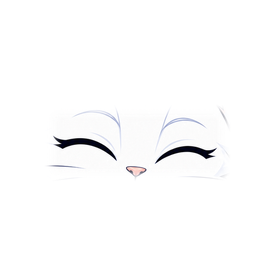
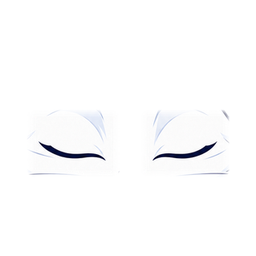
Кади: новые позы — думает, с ноутбуком, спокойный, приветствие, с лупой
Исходники владельца из ChatGPT обработаны по правилам DESIGN.md: мусор убран, обрезка
с полем, уменьшение вдвое, слой моргания из пары с закрытыми глазами. Заменены neutral,
greeting и search (отражена, надпись cad.kz незеркальная), голова для чата вырезана
из нового neutral. Добавлены think и laptop для окна ИИ-консультанта. Обработка —
скрипт scripts/kadi-images.py, чтобы следующие позы делать так же. Служебная страница
/kadi со всеми позами — только в демо, чтобы владелец проверил вид и моргание.

Claude-Session: https://claude.ai/code/session_01VMxEUVfyK6pAGpGHoVX8Mr

diff --git a/src/components/MascotGallery/MascotGallery.tsx b/src/components/MascotGallery/MascotGallery.tsx
@@ -1,0 +1,40 @@
+import { Grid } from '../Grid/Grid'
+import { Mascot, type MascotPose, type MascotSize } from '../Mascot/Mascot'
+import styles from './MascotGallery.module.css'
+
+type Item = { pose: MascotPose; size: MascotSize; title: string; where: string }
+
+/** Позы Кади с тем размером, в каком они стоят (или будут стоять) на сайте. */
+const ITEMS: Item[] = [
+  { pose: 'not-found', size: 'lg', title: 'С чертежом', where: 'Страница 404' },
+  { pose: 'empty-cart', size: 'md', title: 'С коробкой', where: 'Пустая корзина' },
+  {
+    pose: 'search',
+    size: 'md',
+    title: 'С лупой',
+    where: 'Поиск без результатов, фильтр каталога без товаров',
+  },
+  { pose: 'think', size: 'md', title: 'Думает', where: 'ИИ-консультант: ожидание ответа' },
+  { pose: 'laptop', size: 'md', title: 'С ноутбуком', where: 'ИИ-консультант: работает' },
+  { pose: 'greeting', size: 'md', title: 'Приветствие', where: 'ИИ-консультант: первое окно' },
+  { pose: 'neutral', size: 'md', title: 'Спокойный', where: 'Запас, пока не выводится' },
+  { pose: 'success', size: 'md', title: 'Доволен', where: 'После заявки — при запуске' },
+  { pose: 'head', size: 'avatar', title: 'Голова', where: 'Шапка окна ИИ-консультанта' },
+]
+
+/** Служебная витрина поз Кади для демоверсии: проверить вид и моргание. */
+export function MascotGallery() {
+  return (
+    <Grid as="ul" span={{ base: 12, sm: 6, md: 4 }} className={styles.list}>
+      {ITEMS.map((item) => (
+        <li key={item.pose} className={styles.item}>
+          <div className={styles.stage}>
+            <Mascot pose={item.pose} size={item.size} />
+          </div>
+          <p className={styles.title}>{item.title}</p>
+          <p className={styles.where}>{item.where}</p>
+        </li>
+      ))}
+    </Grid>
+  )
+}

diff --git a/src/components/Mascot/Mascot.tsx b/src/components/Mascot/Mascot.tsx
@@ -4,6 +4,8 @@ import emptyCartBlink from '../../../public/images/mascot/kadi-empty-cart-blink.
 import greeting from '../../../public/images/mascot/kadi-greeting.png'
 import head from '../../../public/images/mascot/kadi-head.png'
 import headBlink from '../../../public/images/mascot/kadi-head-blink.png'
+import laptop from '../../../public/images/mascot/kadi-laptop.png'
+import laptopBlink from '../../../public/images/mascot/kadi-laptop-blink.png'
 import neutral from '../../../public/images/mascot/kadi-neutral.png'
 import neutralBlink from '../../../public/images/mascot/kadi-neutral-blink.png'
 import notFound from '../../../public/images/mascot/kadi-not-found.png'
@@ -11,11 +13,15 @@ import notFoundBlink from '../../../public/images/mascot/kadi-not-found-blink.pn
 import search from '../../../public/images/mascot/kadi-search.png'
 import searchBlink from '../../../public/images/mascot/kadi-search-blink.png'
 import success from '../../../public/images/mascot/kadi-success.png'
+import think from '../../../public/images/mascot/kadi-think.png'
+import thinkBlink from '../../../public/images/mascot/kadi-think-blink.png'
 import styles from './Mascot.module.css'
 
 /**
  * Позы Кади. blink — слой того же размера, где видны только закрытые глаза:
  * кладётся поверх и на мгновение проявляется (моргание).
+ * think (думает) и laptop (с ноутбуком) смотрят вправо — только для окна ИИ-консультанта,
+ * где Кади слева от сообщений; на страницы справа от текста их не ставить.
  */
 const POSES = {
   neutral: { src: neutral, blink: neutralBlink },
@@ -24,6 +30,8 @@ const POSES = {
   'not-found': { src: notFound, blink: notFoundBlink },
   success: { src: success, blink: null },
   greeting: { src: greeting, blink: null },
+  think: { src: think, blink: thinkBlink },
+  laptop: { src: laptop, blink: laptopBlink },
   head: { src: head, blink: headBlink },
 } satisfies Record<string, { src: StaticImageData; blink: StaticImageData | null }>
 

diff --git a/src/app/(site)/kadi/page.tsx b/src/app/(site)/kadi/page.tsx
@@ -1,0 +1,29 @@
+import type { Metadata } from 'next'
+import { notFound } from 'next/navigation'
+import { Breadcrumbs } from '@/components/Breadcrumbs/Breadcrumbs'
+import { Container } from '@/components/Container/Container'
+import { MascotGallery } from '@/components/MascotGallery/MascotGallery'
+import { PageIntro } from '@/components/PageIntro/PageIntro'
+import { isProduction } from '@/lib/seo'
+
+export const metadata: Metadata = {
+  title: 'Кади — позы персонажа — CAD.kz',
+  robots: { index: false, follow: false },
+}
+
+/** Служебная страница демоверсии: все позы Кади. На рабочем сайте её нет (404). */
+export default function KadiPage() {
+  if (isProduction()) notFound()
+  return (
+    <main>
+      <Container>
+        <Breadcrumbs items={[{ title: 'Главная', href: '/' }, { title: 'Кади' }]} />
+        <PageIntro
+          title="Кади — позы персонажа"
+          lead="Служебная страница демоверсии, на рабочем сайте её не будет. Кади моргает раз в 3 секунды и ещё раз при наведении."
+        />
+        <MascotGallery />
+      </Container>
+    </main>
+  )
+}

diff --git a/src/components/MascotGallery/MascotGallery.module.css b/src/components/MascotGallery/MascotGallery.module.css
@@ -1,0 +1,37 @@
+/* Плитки по 4 колонки от 960 px, по 6 от 640, на телефоне во всю ширину. */
+.list {
+  padding-bottom: var(--section-gap);
+}
+
+.item {
+  display: flex;
+  flex-direction: column;
+  gap: var(--space-1);
+  padding: var(--space-6);
+  border-radius: var(--radius-lg);
+  background: var(--color-surface);
+}
+
+/* Высота сцены — по самой крупной позе (404 от 960 px), чтобы подписи ряда стояли на одной линии. */
+.stage {
+  display: flex;
+  align-items: flex-end;
+  justify-content: center;
+  min-height: var(--mascot-lg);
+  margin-bottom: var(--space-3);
+}
+
+.title {
+  margin: 0;
+  font-size: var(--text-h4);
+  font-weight: var(--weight-semibold);
+  line-height: var(--leading-snug);
+  color: var(--color-text);
+}
+
+.where {
+  margin: 0;
+  font-size: var(--text-sm);
+  line-height: var(--leading-snug);
+  color: var(--color-text-muted);
+}

diff --git a/scripts/kadi-images.py b/scripts/kadi-images.py
@@ -1,0 +1,200 @@
+"""Обработка поз Кади из исходников ChatGPT (правила — docs/DESIGN.md, «Иконки и изображения»).
+
+Запуск: python3 scripts/kadi-images.py <папка с исходниками>
+Нужны Pillow, numpy, scipy. Исходники 1254 × 1254 с прозрачным фоном: kadi-<поза>.png
+и, если есть, kadi-<поза>-closed.png (те же контуры, глаза закрыты).
+
+Что делает с каждой позой из POSES:
+1. Убирает мелкий мусор: оставляет фигуру (непрозрачность > 40, куски от 150 px)
+   и её сглаженный край в 4 px вокруг, остальное — прозрачное.
+2. Обрезает по фигуре с полем 12 px и уменьшает вдвое (с учётом прозрачности, без светлой каймы).
+3. Слой моргания: из картинки с закрытыми глазами берутся только места, где она отличается
+   от открытой (глаза, у некоторых поз и брови), по прямоугольникам с растушёвкой 10 px.
+4. mirror: отражает позу (смотрит влево — для места справа от текста), надпись на жилете
+   переносится незеркальной.
+5. Голову для шапки чата (kadi-head) вырезает из neutral квадратом 256 px.
+
+Готовые файлы — public/images/mascot/kadi-<поза>.png и kadi-<поза>-blink.png.
+"""
+
+import sys
+from pathlib import Path
+
+import numpy as np
+from PIL import Image
+from scipy import ndimage as nd
+
+OUT = Path(__file__).resolve().parent.parent / 'public' / 'images' / 'mascot'
+
+# поза: отражать ли (True — смотрит влево, стоит справа от текста)
+POSES = {
+    'neutral': False,
+    'search': True,
+    'think': False,
+    'laptop': False,
+    'greeting': False,
+}
+
+MARGIN = 12  # поле вокруг фигуры в исходных px
+FEATHER = 20  # растушёвка слоя глаз в исходных px = 10 px в готовой картинке
+EYE_PAD = 6  # запас вокруг найденного отличия глаз
+HEAD = 256  # сторона головы для чата
+
+
+def load(path: Path) -> np.ndarray:
+    return np.array(Image.open(path).convert('RGBA')).astype(np.float32)
+
+
+def figure_mask(rgba: np.ndarray) -> np.ndarray:
+    """Где фигура: плотные куски от 150 px и сглаженный край в 4 px вокруг них."""
+    solid = rgba[:, :, 3] > 40
+    labels, count = nd.label(solid, structure=np.ones((3, 3)))
+    sizes = nd.sum(solid, labels, range(1, count + 1))
+    keep = np.isin(labels, [i + 1 for i, s in enumerate(sizes) if s >= 150])
+    return nd.binary_dilation(keep, iterations=4)
+
+
+def eye_mask(opened: np.ndarray, closed: np.ndarray, mask: np.ndarray) -> np.ndarray:
+    """Прямоугольники, где закрытые глаза отличаются от открытых, с растушёвкой."""
+    both = (opened[:, :, 3] > 200) & (closed[:, :, 3] > 200) & mask
+    diff = (np.abs(opened[:, :, :3] - closed[:, :, :3]).max(2) > 60) & both
+    diff = nd.binary_opening(diff, iterations=2)
+    labels, count = nd.label(nd.binary_dilation(diff, iterations=8))
+    sizes = nd.sum(diff, labels, range(1, count + 1))
+    h, w = diff.shape
+    rects = np.zeros((h, w), bool)
+    for size, box in zip(sizes, nd.find_objects(labels)):
+        if size < 300:
+            continue
+        y0, y1 = max(box[0].start - EYE_PAD, 0), min(box[0].stop + EYE_PAD, h)
+        x0, x1 = max(box[1].start - EYE_PAD, 0), min(box[1].stop + EYE_PAD, w)
+        rects[y0:y1, x0:x1] = True
+    # 1 внутри прямоугольников, дальше линейно до 0 на расстоянии FEATHER
+    dist = nd.distance_transform_edt(~rects)
+    return np.clip(1 - dist / FEATHER, 0, 1)
+
+
+def clean(rgba: np.ndarray, mask: np.ndarray) -> np.ndarray:
+    out = rgba.copy()
+    out[:, :, 3] *= mask
+    return out
+
+
+def halve(rgba: np.ndarray) -> Image.Image:
+    """Уменьшить вдвое с учётом прозрачности (без светлой каймы по краю)."""
+    a = rgba[:, :, 3:4] / 255
+    pre = np.concatenate([rgba[:, :, :3] * a, rgba[:, :, 3:4]], axis=2)
+    h, w = pre.shape[:2]
+    small = np.stack(
+        [
+            np.array(
+                Image.fromarray(pre[:, :, i].astype(np.float32), mode='F').resize(
+                    (w // 2, h // 2), Image.Resampling.LANCZOS
+                )
+            )
+            for i in range(4)
+        ],
+        axis=2,
+    )
+    alpha = np.clip(small[:, :, 3], 0, 255)
+    safe = np.where(alpha > 0, alpha / 255, 1)
+    rgb = np.clip(small[:, :, :3] / safe[:, :, None], 0, 255)
+    rgb[alpha <= 0.5] = 0
+    return Image.fromarray(np.dstack([rgb, alpha]).round().astype(np.uint8), 'RGBA')
+
+
+def vest_text_box(rgba: np.ndarray) -> tuple[int, int, int, int]:
+    """Надпись и знак на жилете: светлые пиксели, со всех сторон окружённые тёмно-синим."""
+    r, g, b, a = (rgba[:, :, i] for i in range(4))
+    navy = (a > 200) & (b > r + 25) & (r < 90) & (b < 170)
+    navy_share = nd.uniform_filter(navy.astype(np.float32), size=41)
+    light = (a > 200) & (np.minimum(np.minimum(r, g), b) > 150) & (navy_share > 0.55)
+    labels, count = nd.label(nd.binary_dilation(light, iterations=10))
+    sizes = nd.sum(light, labels, range(1, count + 1))
+    biggest = int(np.argmax(sizes)) + 1
+    ys, xs = np.nonzero(labels == biggest)
+    return int(xs.min()), int(ys.min()), int(xs.max()) + 1, int(ys.max()) + 1
+
+
+def mirror(rgba: np.ndarray, extra: list[np.ndarray]) -> tuple[np.ndarray, list[np.ndarray]]:
+    """Отразить картинку; надпись на жилете вернуть незеркальной (с растушёвкой края заплатки)."""
+    x0, y0, x1, y1 = vest_text_box(rgba)
+    pad = 6
+    x0, y0, x1, y1 = x0 - pad, y0 - pad, x1 + pad, y1 + pad
+    w = rgba.shape[1]
+    flipped = rgba[:, ::-1].copy()
+    patch = rgba[y0:y1, x0:x1]
+    nx0 = w - x1
+    ph, pw = patch.shape[:2]
+    inner = np.zeros((ph, pw), bool)
+    inner[pad:-pad, pad:-pad] = True
+    weight = np.clip(1 - nd.distance_transform_edt(~inner) / pad, 0, 1)[:, :, None]
+    region = flipped[y0:y1, nx0 : nx0 + pw]
+    flipped[y0:y1, nx0 : nx0 + pw] = patch * weight + region * (1 - weight)
+    print(f'    надпись на жилете: {x0},{y0}–{x1},{y1}')
+    return flipped, [e[:, ::-1].copy() for e in extra]
+
+
+def crop_box(mask: np.ndarray) -> tuple[int, int, int, int]:
+    ys, xs = np.nonzero(mask)
+    h, w = mask.shape
+    x0, y0 = max(xs.min() - MARGIN, 0), max(ys.min() - MARGIN, 0)
+    x1, y1 = min(xs.max() + 1 + MARGIN, w), min(ys.max() + 1 + MARGIN, h)
+    # чётные размеры, чтобы уменьшение вдвое было точным
+    return x0, y0, x1 - (x1 - x0) % 2, y1 - (y1 - y0) % 2
+
+
+def save(img: Image.Image, name: str) -> None:
+    path = OUT / name
+    img.save(path, optimize=True)
+    print(f'    {name}: {img.width} × {img.height}, {path.stat().st_size // 1024} КБ')
+
+
+def head(full: np.ndarray, blink: np.ndarray, eyes: np.ndarray) -> None:
+    """Голова для шапки чата: квадрат по глазам, как прежняя kadi-head (глаза на 56 % высоты)."""
+    ys, xs = np.nonzero(eyes > 0.99)
+    side = int(round((xs.max() - xs.min()) / 0.73))
+    cx, cy = (xs.max() + xs.min()) / 2, (ys.max() + ys.min()) / 2
+    x0, y0 = int(round(cx - side / 2)), int(round(cy - 0.56 * side))
+    box = (x0, y0, x0 + side, y0 + side)
+    for arr, name in ((full, 'kadi-head.png'), (blink, 'kadi-head-blink.png')):
+        img = halve(arr)  # уменьшение с учётом прозрачности, затем до 256
+        small = (box[0] // 2, box[1] // 2, (box[0] + side) // 2, (box[1] + side) // 2)
+        save(img.crop(small).resize((HEAD, HEAD), Image.Resampling.LANCZOS), name)
+
+
+def process(src: Path, pose: str, flip: bool) -> None:
+    print(pose)
+    opened = load(src / f'kadi-{pose}.png')
+    closed_path = src / f'kadi-{pose}-closed.png'
+    mask = figure_mask(opened)
+    opened = clean(opened, mask)
+    blink = None
+    if closed_path.exists():
+        closed = load(closed_path)
+        eyes = eye_mask(opened, closed, mask)
+        blink = clean(closed, mask)
+        blink[:, :, 3] *= eyes
+    if flip:
+        opened, rest = mirror(opened, [blink] if blink is not None else [])
+        mask = mask[:, ::-1]
+        blink = rest[0] if rest else None
+    x0, y0, x1, y1 = crop_box(mask)
+    save(halve(opened[y0:y1, x0:x1]), f'kadi-{pose}.png')
+    if blink is not None:
+        save(halve(blink[y0:y1, x0:x1]), f'kadi-{pose}-blink.png')
+    if pose == 'neutral' and blink is not None:
+        head(opened, blink, eyes)
+
+
+def main() -> None:
+    if len(sys.argv) != 2:
+        sys.exit('Укажите папку с исходниками: python3 scripts/kadi-images.py <папка>')
+    src = Path(sys.argv[1])
+    for pose, flip in POSES.items():
+        if (src / f'kadi-{pose}.png').exists():
+            process(src, pose, flip)
+
+
+if __name__ == '__main__':
+    main()

diff --git a/docs/HANDOFF.md b/docs/HANDOFF.md
@@ -3,7 +3,7 @@
 Обновлять в конце каждого этапа. Читать вместе с `AGENTS.md`. Подробности решений — `docs/DECISIONS.md`.
 
 ## Сделано (на 12.10.2026)
-- Кади — персонаж сайта: 404, пустая корзина, поиск и фильтр без результатов; заготовка для ИИ-консультанта — раздел «Кади».
+- Кади — персонаж сайта: 404, пустая корзина, поиск и фильтр без результатов; новые позы (думает, с ноутбуком, спокойный, приветствие, с лупой) и страница `/kadi` в демо; заготовка для ИИ-консультанта — раздел «Кади».
 - Редизайн главной по аудиту ChatGPT: пакеты 1 и 2 отменены владельцем, сделаны его точечные правки — раздел «Главная: редизайн, пакеты 1 и 2».
 - Каталог по данным CRM, пункты P0 документа https://claude.ai/code/artifact/9081e90b-241e-473f-9303-71fb087f8cc5 — раздел «Каталог по CRM: P0».
 - Логика каталога по замечаниям владельца 12.10: без лишних шагов, сателлиты списком, пакеты и девять задач GEO5 — раздел «Каталог: меньше шагов, сателлиты, GEO5».
@@ -398,15 +398,16 @@ ChatGPT в режиме агента прошёл часть сценариев 
 
 ## Кади (12.10.2026)
 ТЗ владельца и лист-референс — в чате 12.10; картинки поз владелец сгенерировал в ChatGPT (пары с открытыми и закрытыми глазами). Правила и размеры — `docs/DESIGN.md`, «Иконки и изображения», заготовка чата — `docs/ARCHITECTURE.md`, Assistant UI.
-- `Mascot` (позы neutral, search, empty-cart, not-found, success, greeting, head; размеры icon, avatar, sm, md, lg), `AssistantHeader` (не выводится), токены `--mascot-*`, `--duration-blink`, `--delay-blink`.
+- `Mascot` (позы neutral, search, empty-cart, not-found, success, greeting, think, laptop, head; размеры icon, avatar, sm, md, lg), `AssistantHeader` (не выводится), токены `--mascot-*`, `--duration-blink`, `--delay-blink`.
 - Встроен: 404 (тексты по ТЗ, кнопки «В каталог», «На главную», ссылка «Контакты»), пустая корзина и оформление («Корзина пока пустая», WhatsApp «Помочь с выбором» оставлен), поиск без результатов («Ничего не найдено», запрос в тексте, WhatsApp и каталог), фильтр каталога без товаров (Кади и основная кнопка «Сбросить фильтр»).
 - Проверено локально (демоданные, боевая сборка): 1440/1200/960/640/390 — прокрутки вбок нет, Кади не перекрывает кнопки, CLS 0, при reduced-motion неподвижен. Отдаётся WebP 16–53 КБ.
 - 12.10, вечер: владелец не увидел Кади на демо — сборка Vercel для `aef4c11` упала (`a7a7649` пропущена), на демо оставалась версия `551767f`. Локально `vercel-build` с `DEMO_AUTO_SETUP=yes` проходит и на пустой, и на заполненной базе, миграций в коммите нет — разовый сбой Vercel; пересборка запущена новым коммитом. Проверять статус сборки: `gh api repos/Cadkz/cad.kz/commits/<sha>/status`.
 - 12.10, вечер: замечание владельца — Кади смотрел за край блока. Позы `search`, `empty-cart`, `not-found` отражены (смотрят влево, надпись на жилете перенесена незеркальной), Кади везде справа от текста, на телефоне над текстом у правого края; фильтр каталога без товаров переделан так же (было по центру). Моргание раз в 3,2 с. Браузер Playwright в этой среде не скачался — вёрстку на 390/1440 проверить на демо.
-- Не сделано, ждёт решения владельца: довольный Кади после заявки — при запуске (сейчас демо-сообщение); на трёх позах надпись на жилете `CAD.kz`, на остальных `cad.kz` как в логотипе — по желанию перегенерировать neutral, search, greeting; хвост отдельным слоем не вырезали; помощник-«скрепка» в поиске (идея 10.10) противоречит ТЗ — не делаем, если владелец не вернётся к ней.
+- 12.10, ночь — новые позы: обработаны скриптом `scripts/kadi-images.py` из `Макеты/kadi-2026-10-12/` (исходники потом удалены из репозитория). Заменены `neutral`, `greeting`, `search` (отражена, надпись `cad.kz` незеркальная) и голова `head` (вырезана из нового `neutral`); добавлены `think` (думает) и `laptop` (с ноутбуком) с морганием — только для окна консультанта, взгляд вправо. Надпись `cad.kz` теперь на всех позах, кроме `not-found`, `empty-cart`, `success` (их не перегенерировали). Служебная страница всех поз `/kadi` — только в демо. Отдаётся WebP: поза 8–33 КБ, слой глаз 1–3 КБ. Проверено в боевой сборке на демоданных: `/kadi` и поиск без результатов на 1440/1200/960/640/390 — прокрутки вбок нет, левый край заголовка по логотипу, ошибок консоли нет, моргают все семь слоёв.
+- Не сделано, ждёт решения владельца: довольный Кади после заявки — при запуске (сейчас демо-сообщение); на `not-found`, `empty-cart`, `success` надпись на жилете `CAD.kz`, на остальных `cad.kz` как в логотипе — по желанию перегенерировать эти три; хвост отдельным слоем не вырезали; помощник-«скрепка» в поиске (идея 10.10) противоречит ТЗ — не делаем, если владелец не вернётся к ней.
 
 ## Следующий шаг
-**12.10.2026, ночь — новые позы Кади (сделать первым).** Исходники от владельца (ChatGPT, 1254 × 1254, прозрачный фон) — `Макеты/kadi-2026-10-12/`: `kadi-think` (думает, лапа у подбородка, смотрит вправо-вверх), `kadi-neutral`, `kadi-search` (лупа, смотрит вправо), `kadi-laptop` (с ноутбуком), каждая с парой `-closed` (глаза закрыты; проверено 12.10: силуэты совпадают на 99,5 %, нос, рот и контуры без сдвига — годятся для слоя моргания), и `kadi-greeting` (без пары, моргания не будет — как раньше). Надпись на жилете везде `cad.kz`. Сделать: обработать по правилам `docs/DESIGN.md` (Кади: обрезка с полем 12 px, уменьшить вдвое, слой глаз из `-closed` по прямоугольнику глаз с растушёвкой 10 px); `neutral` и `greeting` заменить; `search` отразить (смотрит влево, надпись на жилете перенести незеркальной — как в коммите e11f19f) и заменить; новые позы `think` и `laptop` добавить в `Mascot` (для окна ИИ-консультанта: Кади там слева от сообщений, взгляд вправо правильный; на страницы справа от текста их не ставить). Проверить моргание на демо и вес файлов. Исходники после обработки удалить из репозитория отдельным коммитом. Дальше — ИИ-консультант (ответы владельца по модели, Битрикс24, правилам — см. ниже, «Кади, вечер»).
+**12.10.2026, ночь — новые позы Кади сделаны** (раздел «Кади»). Владелец смотрит на демо https://cad-kz.vercel.app/kadi (все позы, моргание) и https://cad-kz.vercel.app/search?q=абвгд (Кади с лупой); замечания — точечно. По желанию — перегенерировать `not-found`, `empty-cart`, `success` с `cad.kz` на жилете (обработка тем же скриптом). Дальше — ИИ-консультант: новый чат, Opus 5.5 high; нужны ответы владельца из пункта «Кади, вечер» ниже (поставщик модели и ключ, доступ к Битрикс24, правила ответов, 20–30 типичных вопросов).
 **12.10.2026, вечер, Кади:** моргание теперь по кругу раз в 3,2 с (`--period-blink`), владелец смотрит на демо. К ИИ-консультанту от владельца нужно: (1) картинки — поза «Думает» (лапа у подбородка, пара глаза открыты/закрыты) для ожидания ответа в чате, по желанию «Работает» с ноутбуком, перегенерировать neutral, search, greeting с `cad.kz` на жилете; каска, сон, лампочка, свои значки — не нужны (значки только lucide); (2) поставщик модели и ключ с месячным бюджетом; (3) доступ к cadkz.bitrix24.kz (права администратора: вебхук или открытая линия), кто из менеджеров отвечает; (4) правила ответов: что консультант может обещать (скидки, сроки, наличие), когда передаёт менеджеру; (5) 20–30 типичных вопросов клиентов из WhatsApp/CRM для проверки. ИИ-консультант — новый чат, Opus 5.5 high.
 **12.10.2026, Кади:** владелец смотрит на демо https://cad-kz.vercel.app/stranica-kotoroj-net (404), https://cad-kz.vercel.app/cart (пустая корзина), https://cad-kz.vercel.app/search?q=абвгд, каталог с фильтром без товаров; замечания — точечно.
 **12.10.2026, вечер:** владелец смотрит на https://cad-kz.vercel.app популярные решения (компактные, его список — в «Запусках импорта» `home-setup:popular-v3`) и направления 4 × 3; отвечает, какие CRM-блоки приглушить (раздел выше). Пакет 3 (баннер, подвал) не делаем без отдельного решения.

diff --git a/docs/DESIGN.md b/docs/DESIGN.md
@@ -116,7 +116,7 @@
 - Логотипы вендоров — SVG от правообладателя.
 - **Фото, иллюстрации, баннеры** можно генерировать в ChatGPT. Требования к исходнику: PNG или JPG не меньше 2× от размера показа, без текста на картинке (текст верстаем), в фирменной гамме navy/blue/sky. Файл кладём в `public/images/<раздел>/<что-на-картинке>.png` латиницей через дефис, в коде выводим через `next/image`, который сам отдаёт AVIF/WebP.
 - Контентные картинки (новости, товары) загружает маркетолог через админку в Медиа, с обязательным описанием (alt).
-- **Кади — персонаж сайта (12.10.2026).** Белый кот в тёмно-синем жилете, только компонент `Mascot` (`src/components/Mascot`). Где: 404 (`not-found`, с чертежом; `--mascot-lg` 240 px от 960 px справа на 5 колонок, на телефоне `--mascot-md` 160 px над текстом), пустая корзина и поиск без результатов (`empty-cart`, `search`; `--mascot-md` справа от текста, на телефоне над ним), фильтр каталога без товаров (`search`, `--mascot-sm` 120 px справа от текста, на телефоне над ним у правого края). Готовы, но не выводятся: `neutral`, `greeting`, `success` (экран после заявки — когда заявки пойдут в Битрикс24; при демо-сообщении «не передаётся» довольного кота нет) и голова `head` (`--icon-box` 40 px, `--mascot-avatar` 64 px; заготовка шапки чата `AssistantHeader`). Где Кади нет и не будет: товарные карточки, цены, характеристики, лицензии, навигация, логотип, всплывающие окна без действия человека, прелоадер. Кади всегда смотрит на содержимое, а не за край блока (замечание владельца 12.10.2026): он стоит справа от текста (на телефоне — над текстом у правого края), поэтому позы `search`, `empty-cart`, `not-found` отражены и смотрят влево; надпись на жилете при отражении перенесена незеркальной. Новую позу для места справа генерировать сразу смотрящей влево. Картинка декоративная (`alt=""`, `aria-hidden`), смысл несёт текст рядом. Движение: появление один раз (`--duration-base`, подъём на 8 px), моргание впервые через `--delay-blink` 1200 мс, затем раз в `--period-blink` 3200 мс (решение владельца 12.10.2026: одного раза мало) и дополнительно при наведении (`--duration-blink` 180 мс), наведение — наклон на 2° и подъём на 4 px; при `prefers-reduced-motion` неподвижен. Файлы: `public/images/mascot/kadi-<поза>.png` и `kadi-<поза>-blink.png` — слой того же размера, где видны только закрытые глаза. Исходники из ChatGPT 1254 × 1254 с прозрачным фоном, пары «глаза открыты / закрыты» одной картинкой; обработка: убрать мелкий мусор, обрезать по фигуре с полем 12 px, уменьшить вдвое, слой глаз — из картинки с закрытыми глазами по прямоугольнику глаз с растушёвкой 10 px. Новая поза — тем же промптом с листом-референсом, надпись на жилете `cad.kz` как в логотипе.
+- **Кади — персонаж сайта (12.10.2026).** Белый кот в тёмно-синем жилете, только компонент `Mascot` (`src/components/Mascot`). Где: 404 (`not-found`, с чертежом; `--mascot-lg` 240 px от 960 px справа на 5 колонок, на телефоне `--mascot-md` 160 px над текстом), пустая корзина и поиск без результатов (`empty-cart`, `search`; `--mascot-md` справа от текста, на телефоне над ним), фильтр каталога без товаров (`search`, `--mascot-sm` 120 px справа от текста, на телефоне над ним у правого края). Готовы, но не выводятся: `neutral`, `greeting`, `think` (думает, лапа у подбородка — ожидание ответа в чате), `laptop` (с ноутбуком — консультант работает), `success` (экран после заявки — когда заявки пойдут в Битрикс24; при демо-сообщении «не передаётся» довольного кота нет) и голова `head` (`--icon-box` 40 px, `--mascot-avatar` 64 px; заготовка шапки чата `AssistantHeader`). Где Кади нет и не будет: товарные карточки, цены, характеристики, лицензии, навигация, логотип, всплывающие окна без действия человека, прелоадер. Кади всегда смотрит на содержимое, а не за край блока (замечание владельца 12.10.2026): он стоит справа от текста (на телефоне — над текстом у правого края), поэтому позы `search`, `empty-cart`, `not-found` отражены и смотрят влево; надпись на жилете при отражении перенесена незеркальной. Новую позу для места справа генерировать сразу смотрящей влево. `think` и `laptop` смотрят вправо: они для окна ИИ-консультанта, где Кади слева от сообщений; на страницы справа от текста их не ставить. Картинка декоративная (`alt=""`, `aria-hidden`), смысл несёт текст рядом. Движение: появление один раз (`--duration-base`, подъём на 8 px), моргание впервые через `--delay-blink` 1200 мс, затем раз в `--period-blink` 3200 мс (решение владельца 12.10.2026: одного раза мало) и дополнительно при наведении (`--duration-blink` 180 мс), наведение — наклон на 2° и подъём на 4 px; при `prefers-reduced-motion` неподвижен. Файлы: `public/images/mascot/kadi-<поза>.png` и `kadi-<поза>-blink.png` — слой того же размера, где видны только закрытые глаза. Исходники из ChatGPT 1254 × 1254 с прозрачным фоном, пары «глаза открыты / закрыты» одной картинкой; обработка: убрать мелкий мусор, обрезать по фигуре с полем 12 px, уменьшить вдвое, слой глаз — из картинки с закрытыми глазами по прямоугольнику глаз с растушёвкой 10 px. Делает это скрипт `python3 scripts/kadi-images.py <папка>` (исходники `kadi-<поза>.png` и `kadi-<поза>-closed.png`; какие позы отражать — список `POSES` в скрипте; голову `head` он вырезает из `neutral`). Все позы с морганием — на служебной странице `/kadi`, она есть только в демо (на рабочем сайте 404, поисковикам закрыта). Новая поза — тем же промптом с листом-референсом, надпись на жилете `cad.kz` как в логотипе.
 - **Картинки товаров** вписываются целиком (`object-fit: contain`) на светлую подложку `--color-surface`: в карточке каталога рамка `--ratio-card` 16:10, на странице товара главная картинка `--ratio-media` 16:9 на 8 колонок, под ней миниатюры `--thumb-size` 64 px, если картинок несколько. Нет своей галереи — показывается «Картинка для товаров без своей» у производителя; нет и её — в карточке подложка со значком раздела, на странице товара блока картинки нет.
 
 ## Состояния и доступность
